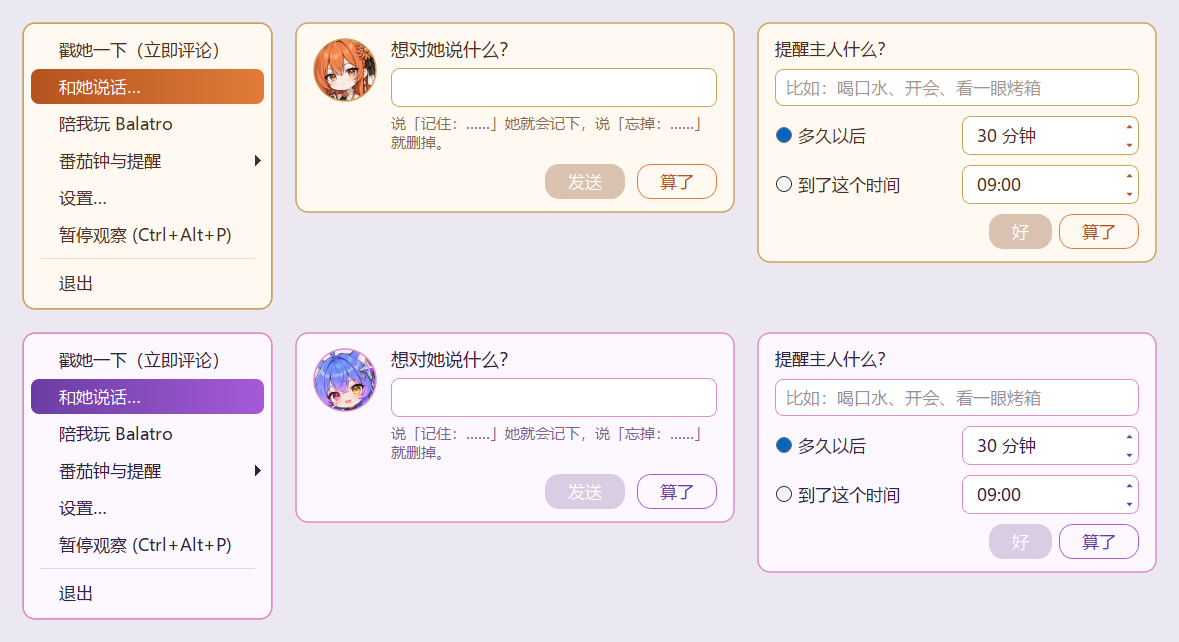
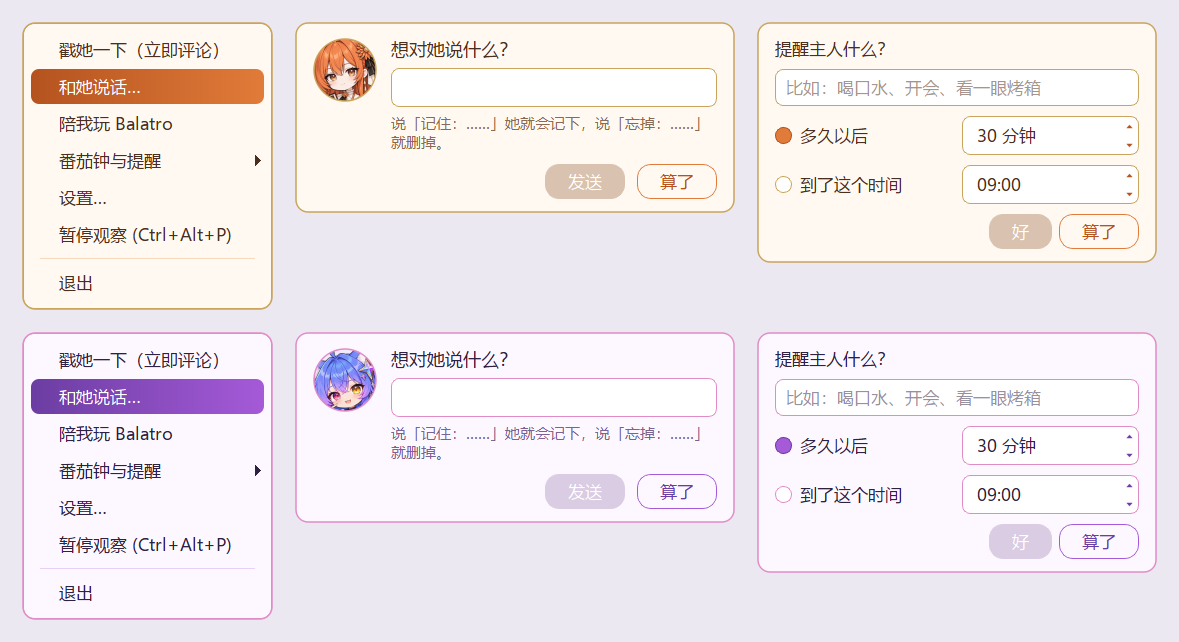
Version 0.3.18: themed radio buttons, a waiting diary clearing is finished

diff --git a/src/claude_pet/journal.py b/src/claude_pet/journal.py
@@ -154,6 +154,7 @@ class Journal:
         self.unreadable = False
         self.created = False  # there was no diary file at the start (seed() may fill it from older records)
         self.active = False  # in use (begin()): only then is a damaged file moved aside; off, its folder stays untouched
+        self._clearing = False  # a clearing, asked for, is not saved yet: a damaged file may be moved aside for it
         self._pending: list[tuple] = []  # changes not saved yet, replayed if the file has to be read again
         self._retry_at = 0.0
         self._load()  # (nothing is written until begin() or a change: a diary that is off never makes a file)
@@ -176,7 +177,7 @@ class Journal:
             return
         except ValueError as exc:
             log.warning("damaged diary, keeping it aside when it is in use: %s", exc)
-            if not self.active or not self._keep_aside():
+            if not (self.active or self._clearing) or not self._keep_aside():
                 self.unreadable = True  # never write over what could not be kept
                 return
             data = {}
@@ -278,6 +279,7 @@ class Journal:
             temp.write_text(json.dumps(payload, ensure_ascii=False, indent=1, sort_keys=True), encoding="utf-8")
             os.replace(temp, self.path)
             self._pending = []
+            self._clearing = False
         except (OSError, ValueError) as exc:  # (ValueError: text that cannot be written as UTF-8)
             log.warning("could not save the diary: %s", exc)
             self.unreadable = True  # (re-read before the next try, so nothing is counted twice)
@@ -405,9 +407,8 @@ class Journal:
     def clear(self) -> None:
         """Forget every day and note; she meets 主人 afresh today."""
         self.created = False  # (the focus log is not brought back either)
-        in_use, self.active = self.active, True  # asked for: a damaged file is moved aside, not cleared
+        self._clearing = True  # asked for: a damaged file is moved aside, even if that has to wait for it to be readable
         self._change(("clear", self._today().isoformat()))
-        self.active = in_use
 
     # ---- reading -----------------------------------------------------------
     def days_together(self, today: datetime.date) -> int:

diff --git a/tests/test_journal.py b/tests/test_journal.py
@@ -316,6 +316,36 @@ def test_switched_off_later_a_damaged_diary_stays_as_it_is(tmp_path):
     assert (tmp_path / "journal.json.damaged-1").read_text(encoding="utf-8") == "{ again"
 
 
+def test_a_clearing_that_had_to_wait_is_finished_while_it_is_switched_off(tmp_path):
+    """Codex's review of v0.3.17: asked for while a damaged file was held by another program, it never got done."""
+    path = tmp_path / "journal.json"
+    held = tmp_path / "held.json"
+    clock = Clock(at(20))
+    diary = Journal(path, clock)
+    diary.begin()
+    diary.add_note("我喜欢猫")
+    diary.pause()
+    held.write_text("{ damaged", encoding="utf-8")
+    path.unlink()
+    path.mkdir()  # reading a folder fails like a file another program holds
+    diary.unreadable = True
+    diary.clear()
+    assert path.is_dir()  # not done yet
+    path.rmdir()
+    held.rename(path)
+    clock.now += journal.RETRY_SEC
+    diary.flush(clock.now)
+    assert (tmp_path / "journal.json.damaged").read_text(encoding="utf-8") == "{ damaged"
+    saved = json.loads(path.read_text(encoding="utf-8"))
+    assert saved["notes"] == [] and saved["days"] == {} and diary._pending == [] and not diary.active
+    path.write_text("{ again", encoding="utf-8")  # done: a later damaged file is left alone again while it is off
+    diary.unreadable = True
+    clock.now += journal.RETRY_SEC
+    diary.flush(clock.now)
+    diary._load()
+    assert path.read_text(encoding="utf-8") == "{ again"
+
+
 def test_a_note_waiting_when_it_is_switched_off_is_still_saved(tmp_path):
     path = tmp_path / "journal.json"
     held = tmp_path / "held.json"

diff --git a/src/claude_pet/reminder_dialog.py b/src/claude_pet/reminder_dialog.py
@@ -21,6 +21,10 @@ def stylesheet(t: Theme) -> str:
     return f"""
 QDialog {{ background: {t.ivory}; }}
 QLabel, QRadioButton {{ color: {t.ink}; font-family: {font}; font-size: 10pt; }}
+QRadioButton {{ spacing: 8px; }}
+QRadioButton::indicator {{ width: 15px; height: 15px; border: 1px solid {t.gold}; border-radius: 8px; background: white; }}
+QRadioButton::indicator:hover {{ border: 1px solid {t.main}; }}
+QRadioButton::indicator:checked {{ background: {t.main}; border: 1px solid {t.deep}; }}
 QLineEdit, QSpinBox, QTimeEdit {{ background: white; color: {t.ink}; border: 1px solid {t.gold}; border-radius: 8px;
     padding: 6px 8px; font-family: {font}; font-size: 10pt; selection-background-color: {t.main}; }}
 QLineEdit:focus, QSpinBox:focus, QTimeEdit:focus {{ border: 1px solid {t.main}; }}

diff --git a/tests/test_timers.py b/tests/test_timers.py
@@ -744,6 +744,8 @@ def test_the_reminder_dialog_wears_her_colours(app, tmp_path, monkeypatch):
     theme = characters.get("gemini").theme
     dialog = reminder_dialog.ReminderDialog(None, 1000.0, "gemini")
     assert theme.main in dialog.styleSheet() and theme.ivory in dialog.styleSheet()
+    checked = dialog.styleSheet().split("QRadioButton::indicator:checked")[1].split("}")[0]
+    assert theme.main in checked  # not the system's blue
     assert not dialog.ok_button.isEnabled()
     dialog.text.setText("喝水")
     assert dialog.ok_button.isEnabled() and dialog.chosen(1000.0)[1] == "喝水"  # it works as before

diff --git a/src/claude_pet/__init__.py b/src/claude_pet/__init__.py
@@ -1,2 +1,2 @@
 """Claude desktop pet."""
-__version__ = "0.3.17"
+__version__ = "0.3.18"

diff --git a/docs/requirements.md b/docs/requirements.md
@@ -269,7 +269,7 @@
     （来自陪伴记忆；零点或下次启动时把前一天的总数交给记忆库，陪伴记忆关着时不记）、完成的番茄、说过的提醒和聊天次数，
     保留 180 天；不存窗口标题、截图和聊天内容。原子写入；读不到时不覆盖，改动留在内存里，每 30 秒重试并在能读时合并；
     损坏的文件改名为 journal.json.damaged 保留，再重新开始。第一次建立时从番茄记录补上认识的第一天和每天的番茄数。
-    记忆库关着时不建文件、不写入、不补番茄记录，损坏的文件也原样不动（打开过再关掉也一样；关掉前没存上的改动和「清空」除外）；重新打开时，关闭期间陪伴记忆累积的时长不补记（基准存在文件里，重启后仍有效）。
+    记忆库关着时不建文件、不写入、不补番茄记录，损坏的文件也原样不动（打开过再关掉也一样；关掉前没存上的改动和「清空」除外，清空时文件读不了就等能读时完成）；重新打开时，关闭期间陪伴记忆累积的时长不补记（基准存在文件里，重启后仍有效）。
     损坏的文件各留一份，不覆盖之前的备份；写不进 UTF-8 的字符不会让程序出错。超过 180 天的日子，只有仍在连续的番茄还保留个数。
     清空陪伴记忆时先把已经过去的那天交给记忆库（零点后还没计过时的情况），再只清掉记忆库里今天的活动时长。
     读不到文件期间的清除照样排队，笔记上限按能读到的文件计（文件一直读不到时先记下的笔记，合并时若已满就不保留，
@@ -352,7 +352,7 @@
     - 测试用本机临时 JSON-RPC 假服务器覆盖连接与错误，用假牌局覆盖：状态摘要、决策解析与白名单、本地规则、自动步骤、
       建议队列、暂停取消、拒绝计数、结束判定。
 
-62. 「添加提醒」的对话框也用当前角色的主题色，和「和她说话」的框一样；选项和行为不变。
+62. 「添加提醒」的对话框也用当前角色的主题色，和「和她说话」的框一样（单选按钮也是）；选项和行为不变。
     设置窗口页眉和「和她说话」框的头像从原尺寸立绘裁切，按屏幕实际像素缩放，不随桌宠身高变糊。设置窗口在放得下的屏幕上不出现滚动条；
     放不下时滚动条用角色的主题色。设置、「和她说话」、「添加提醒」等窗口标题栏的图标是当前角色的圆形头像，切换角色时跟着变。
 

diff --git a/docs/STATUS.md b/docs/STATUS.md
@@ -4,8 +4,8 @@
 
 ## 当前版本
 
-- 已发布：v0.3.17（2026-11-04），附件为 `desk-sister.exe`、`DeskSister-Setup.exe` 和 `SHA256SUMS.txt`。
-- 自 v0.3.17 以来尚未发布的改动：README（中英）加了 B 站宣传片链接（BV1cNxm6iEvr）；不影响程序。
+- 已发布：v0.3.18（2026-11-05），附件为 `desk-sister.exe`、`DeskSister-Setup.exe` 和 `SHA256SUMS.txt`。
+- 自 v0.3.18 以来尚未发布的改动：无。
 
 ## 进行中
 
@@ -30,6 +30,8 @@
 - 一次时间扫描测试曾在没有 CPU 占用的情况下停住约 12 小时，之后无法重现，原因不明。如再出现，记下当时的时刻、种子和网络状况。
 
 ## 最近的决定
+
+- 2026-11-05：不做立绘的网格变形。主人看过头发和裙摆摆动的动图原型（Claude、Gemini 的待机立绘），觉得诡异，所以放弃；原型没有进仓库。
 
 - 2026-11-03：「忘掉」宁可说没找到也不删错：冒号后或引号里的话连最后的标点也按字面找。记忆库关着时不建文件、不写入、不动损坏的文件。Codex 补审了记忆库（两轮，共 11 个问题已修），第二轮的 3 处修复没有再复审。
 
@@ -56,6 +58,7 @@
 
 ## 历史
 
+- v0.3.18：「添加提醒」的单选按钮换成她的配色；记忆库关着时，等文件能读后也会完成之前没做完的「清空」。
 - v0.3.17：Codex 审查 v0.3.13～v0.3.16 的修复：「算了」上按 Enter 不再发送，文件读不了时待写队列不再变长，关掉后不动损坏文件。
 - v0.3.16：Ctrl+Alt+P 被占用时会显示、提醒并自动重试；README 加了新界面的预览图。
 - v0.3.15：头像变清晰，窗口标题栏换成她的头像，「添加提醒」框换成她的配色；去掉设置窗口多出的细滚动条。
